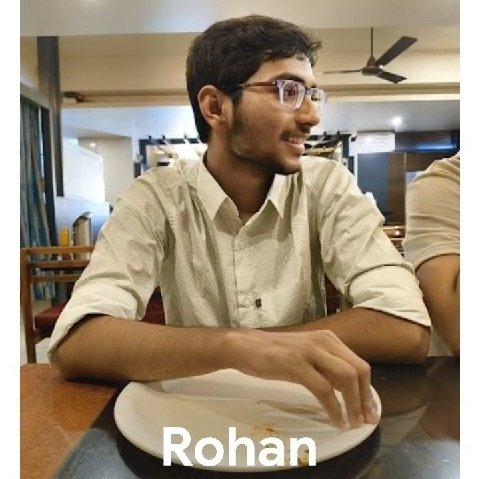
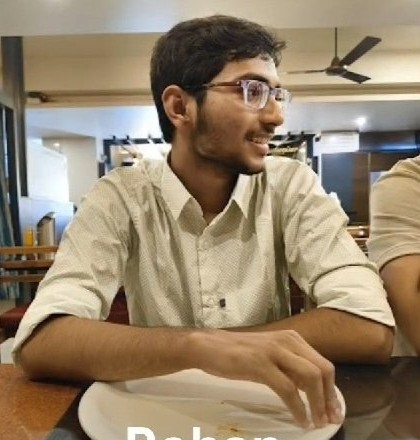
added two photoes for profile

diff --git a/index.html b/index.html
@@ -11,7 +11,7 @@
 
     <div class="container">
         <header>
-            <img src="images/pfp.jpg" alt="Rohan S Mirjankar" class="profile-pic">
+            <img src="images/fpf.jpeg" alt="Rohan S Mirjankar" class="profile-pic">
             <div class="header-text">
                 <h1>Rohan S Mirjankar</h1>
                 <p>Computer Science Student | Web Development</p>
